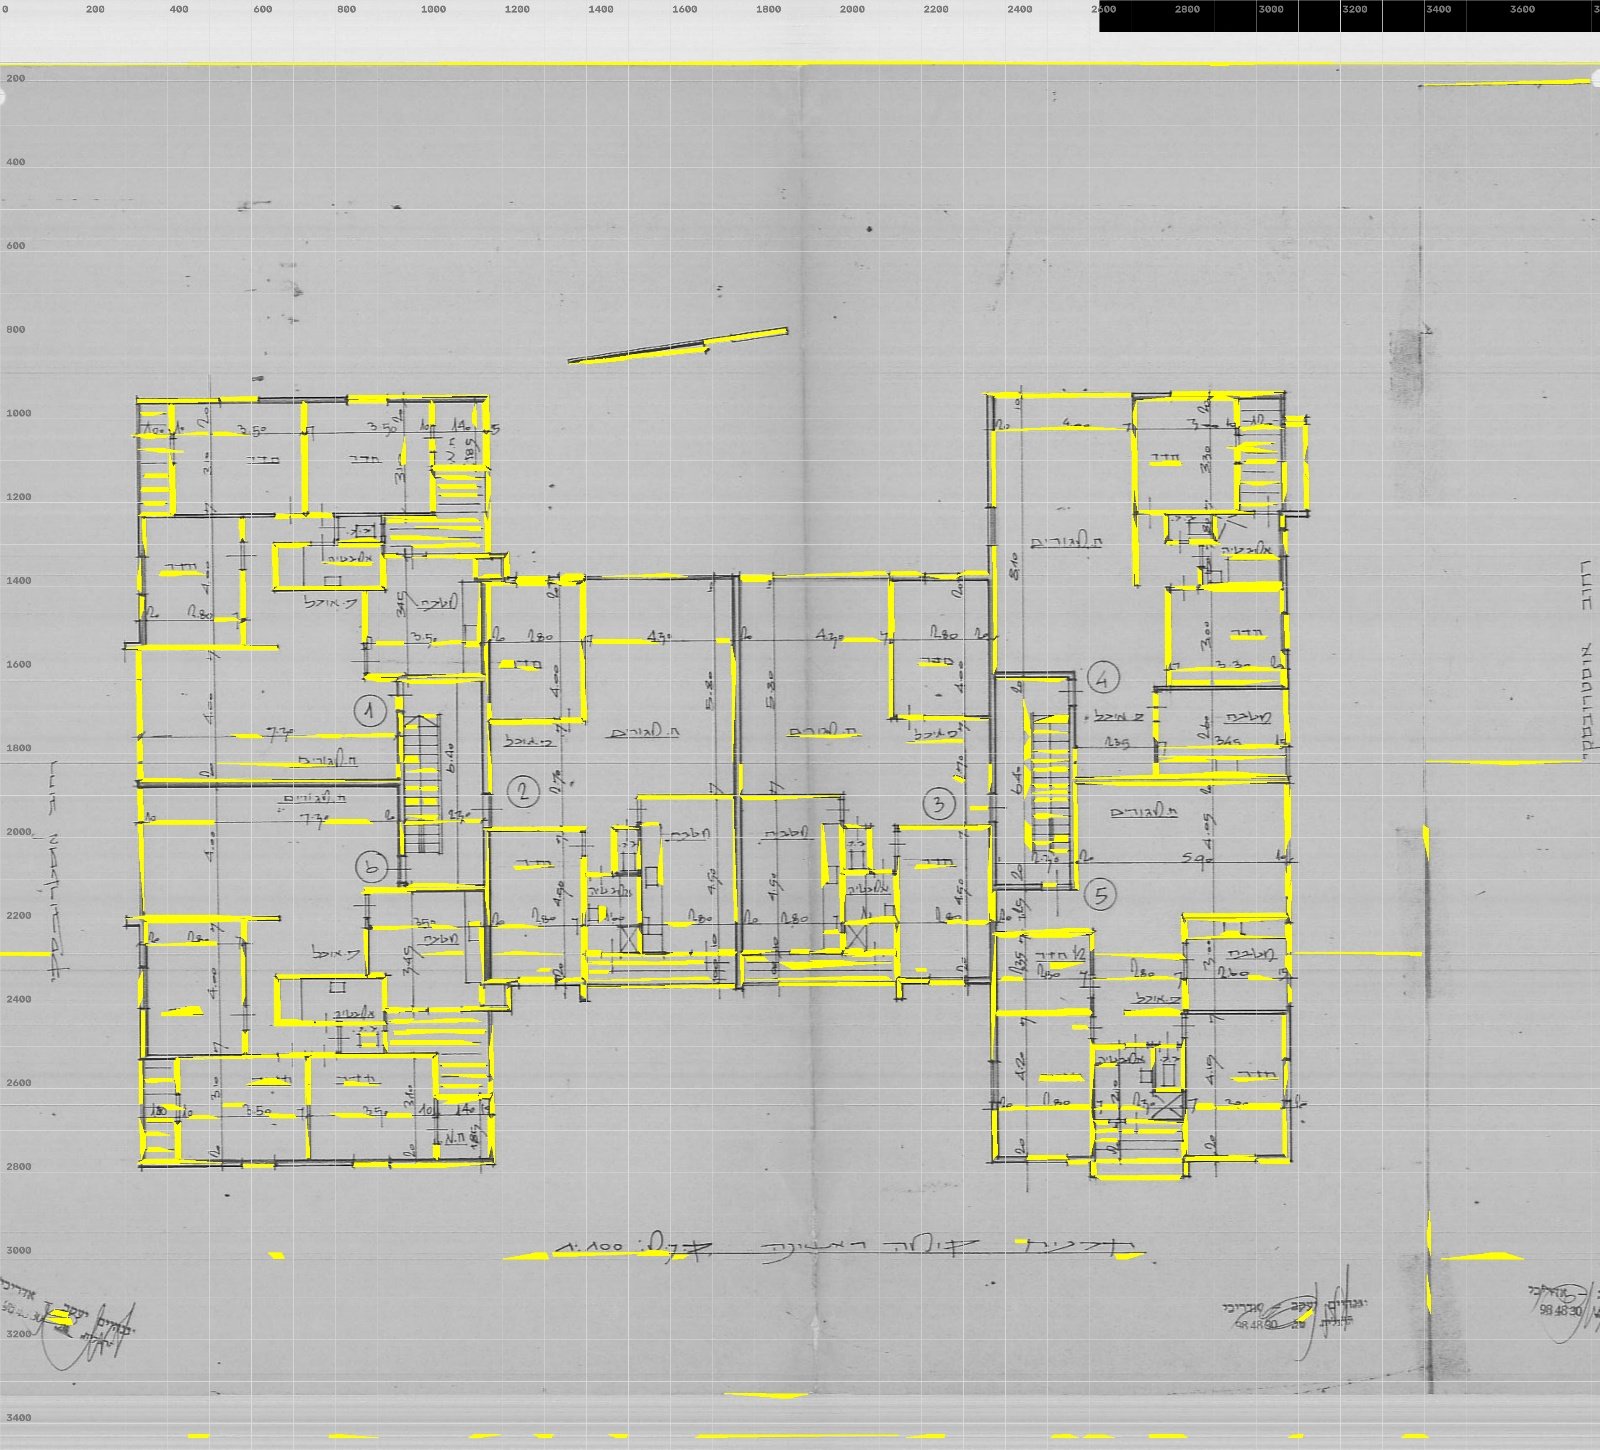
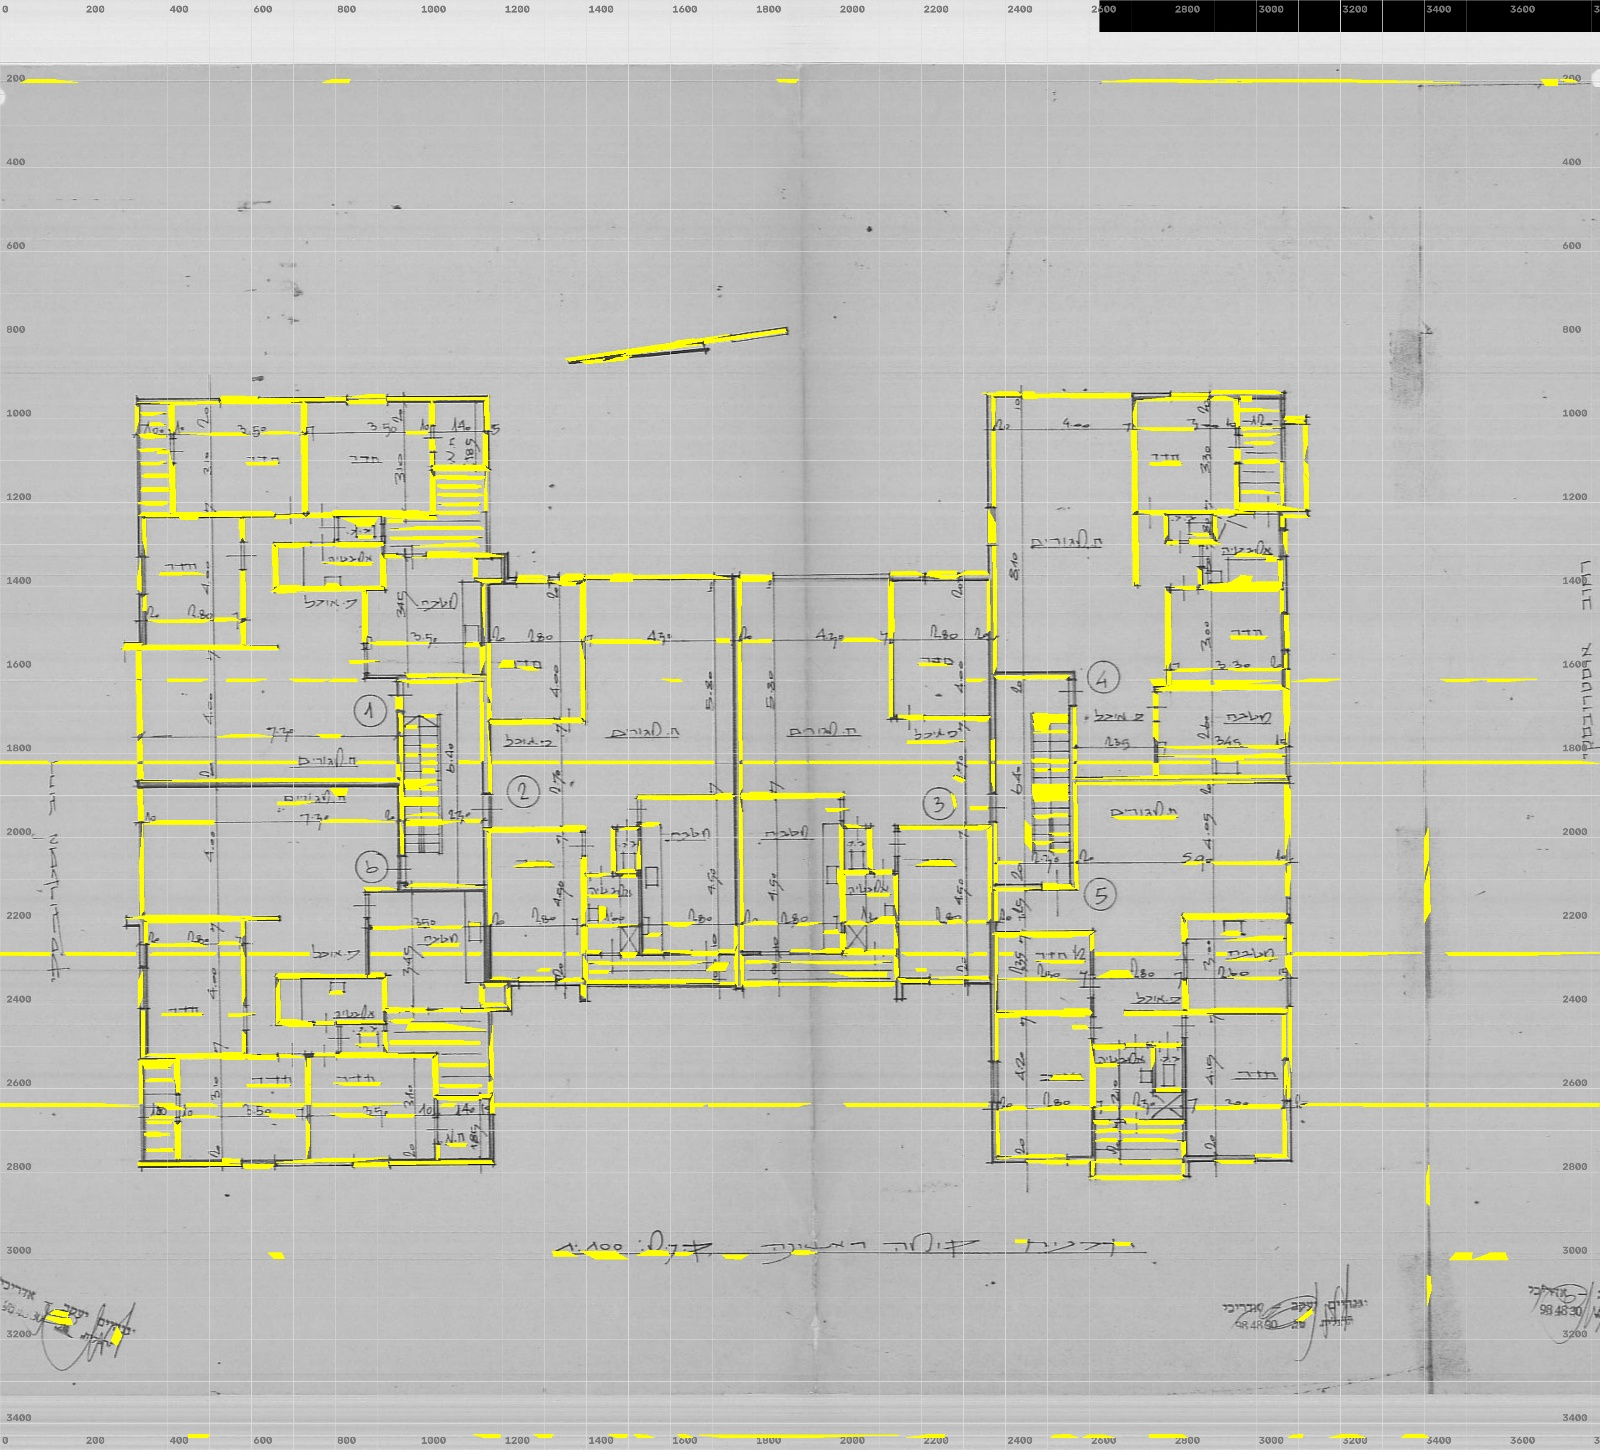
poc milestone: fix X=1775 missing wall by lowering distance threshold to 5.0 and adding overlap ratio filter

diff --git a/detect_all_walls.py b/detect_all_walls.py
@@ -87,10 +87,10 @@ def main():
             if diff_theta > 0.08:
                 continue
                 
-            # 2. Perpendicular distance check (6 to 16 pixels wall thickness range)
+            # 2. Perpendicular distance check (5 to 18 pixels wall thickness range)
             p_diff = lj['p1'] - li['p1']
             dist = abs(np.dot(p_diff, li['n']))
-            if not (6 <= dist <= 16):
+            if not (5.0 <= dist <= 18):
                 continue
                 
             # 3. Overlap check along the line direction
@@ -105,9 +105,12 @@ def main():
             overlap_len = overlap_end - overlap_start
             
             if overlap_len > 15: # Significant overlap required
-                if dist < min_dist:
-                    min_dist = dist
-                    min_idx = j
+                # Overlap ratio check to filter out noise lines (e.g., short folds/dimensions matching long walls)
+                max_len = max(li['length'], lj['length'])
+                if (overlap_len / max_len) > 0.4:
+                    if dist < min_dist:
+                        min_dist = dist
+                        min_idx = j
                     
         if min_idx != -1:
             best_partner[i] = (min_idx, min_dist)